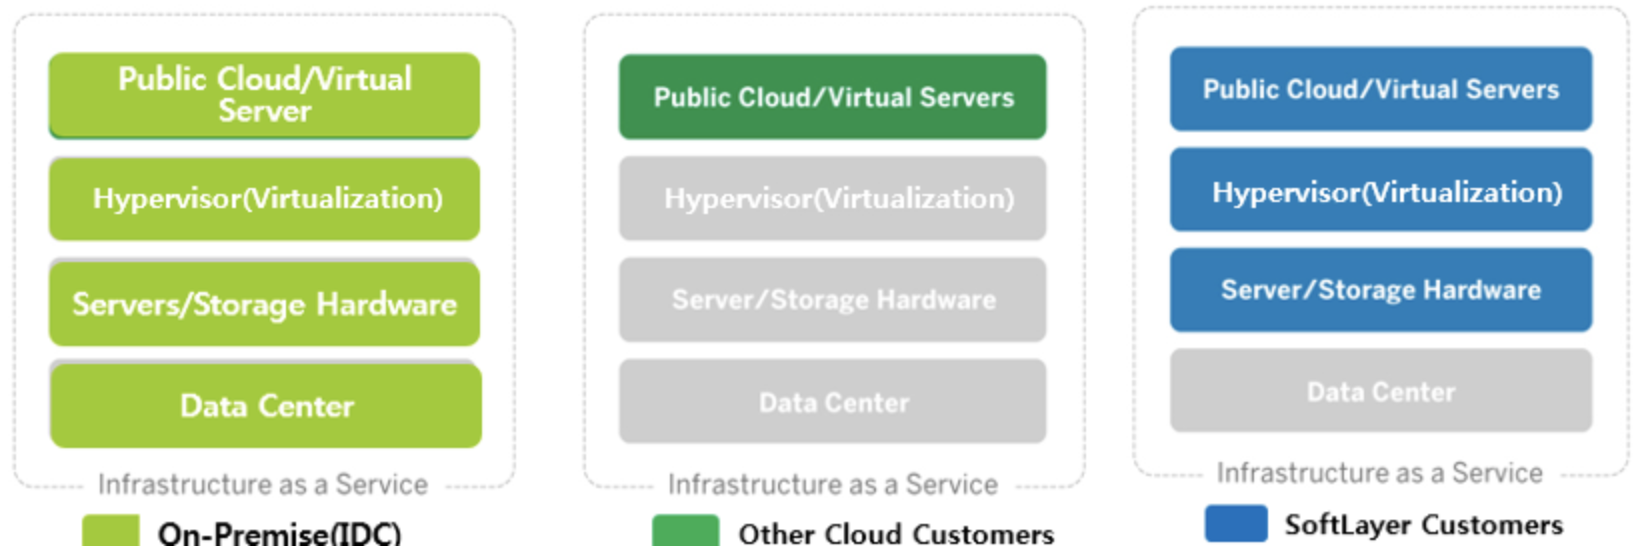
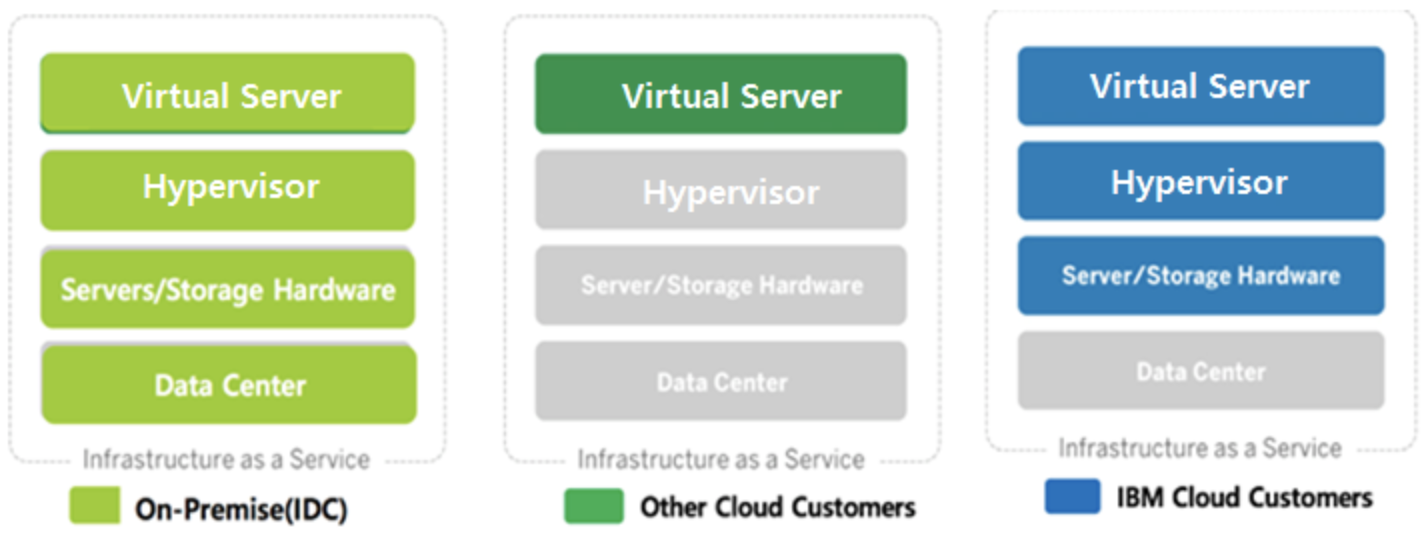
rebuilding site 2019년 10월 18일 금요일 13시 44분 59초 KST

diff --git a/content/docs/cloud/IaaS.md b/content/docs/cloud/IaaS.md
@@ -12,11 +12,29 @@ weight: 100
 - 서버, 스토리지, 네트워크를 필요에 따라 인프라 자원을 사용할 수 있게 클라우드 서비스를 제공하는 형태
 - 대표적인 기술 : 서버 가상화, 데스크톱 가상화 등 (ex. [하이퍼 바이저 (Hypervisor)]({{< relref "/posts/hypervisor" >}})) 
 
-## 서비스 형태
+## 서비스 형태에 따른 구분
 
 <div style="text-align:center" >
     <img src="/static/images/iaas.png" />
-    <div><b>Type-1 and type-2 hypervisors</b> (출처. <a href="https://en.wikipedia.org/wiki/Hypervisor">Wikipedia</a>)</div>
+    <div><b>Infrastructure as a Service</b> (출처. <a href="https://developer.ibm.com/kr/cloud/softlayer-bluemix-infra/">IBM Developer</a>)</div>
 </div>
+
+#### On-Premise (IDC)
+- 소프트웨어 등 솔루션을 클라우드같은 원격 환경이 아닌 자체적으로 보유한 전산실 서버에 직접 설치 및 운영하는 방식 
+- 데이터센터 레벨부터 물리적 인프라(서버/스토리지/네트워크), 가상화를 위한 [하이퍼바이저]({{< relref "/posts/hypervisor" >}}) 레벨, 그리고 서버 가상화 솔루션을 통한 가상서버 레벨까지 모두 컨트롤(관리) 가능 
+
+#### Other Cloud Customers
+- 일반적인 퍼블릭클라우드 (IaaS)
+- 고객은 가상서버 레벨에 대해서만 컨트롤 가능 
+    - 장점
+        - 데이터센터, 물리적 인프라, [하이퍼바이저]({{< relref "/posts/hypervisor" >}}) 레벨에 대해서 신경쓸 필요없음 
+        - 가상서버에 대해서만 관리하면 됨 
+    - 단점
+        - 가상서버 하위 레벨에 대한 관리 불가
+        - 정형화된 [하이퍼바이저]({{< relref "/posts/hypervisor" >}})와 가상 인프라 지원에 대해서만 접근/사용할 수 있음 
+
+#### 하이브리드 방식 (퍼블릭클라우드 + 호스팅)
+- 서비스 환경에 따라 On-Premise와 일반적인 퍼블릭클라우드의 장단점을 취하기 위함 
+- [베어메탈(bare metal)]({{< relref "/posts/bare-metal" >}})) 클라우드 방식 제공으로, 사용자에게 특정 물리 호스트 전체 제어권을 줄 수 있음 (ex. [IBM softlayer](https://www.ibm.com/kr-ko/cloud/info/softlayer-is-now-ibm-cloud))
 
 <!-- ![TEST2](/static/images/iaas.png) -->

diff --git a/content/posts/bare-metal.md b/content/posts/bare-metal.md
@@ -1,0 +1,28 @@
+---
+title: "Bare Metal"
+date: 2019-10-18T11:22:21+09:00
+---
+
+## 베이메탈(bare metal)이란?
+
+### 의미
+- 어떤 소프트웨어도 담겨 있지 않은 하드웨어
+- 하드웨어만을 구매할 수 있는 제품  
+
+### 가상화 관련 
+- 호스트형 가상화 vs. 베어메탈 가상화 비교
+    - 호스트형 가상화
+        - 하드웨어 상에 호스트 운영체제가 있고, 그 위에 가상머신 구현
+        - 대부분 호스트 운영체제가 커널수준에서의 가상화 기술 지원 
+    - 베어메탈 가상화
+        - 호스트 운영체제없이 하드웨어 상에 하이퍼바이저가 바로 설치되고, 그 위에 가상머신 구현 
+        - 클라우드 환경에서의 베어메탈
+            - 물리적인 서버를 직접 구매해서 설치하는 것이 아님
+            - 사용자가 구성한 표준 아키텍처의 하드웨어를 가상서버와 동일한 서비스 형태로 제공
+
+<div style="text-align:center" >
+    <img src="https://github.com/pirate-kor/pirate-posts/blob/master/static/images/baremetal.png" />
+    <div><b>가상서버와 베어메탈</b> (출처. <a href="http://www.ciokorea.com/news/35402">CIO News</a>)</div>
+</div>
+
+
